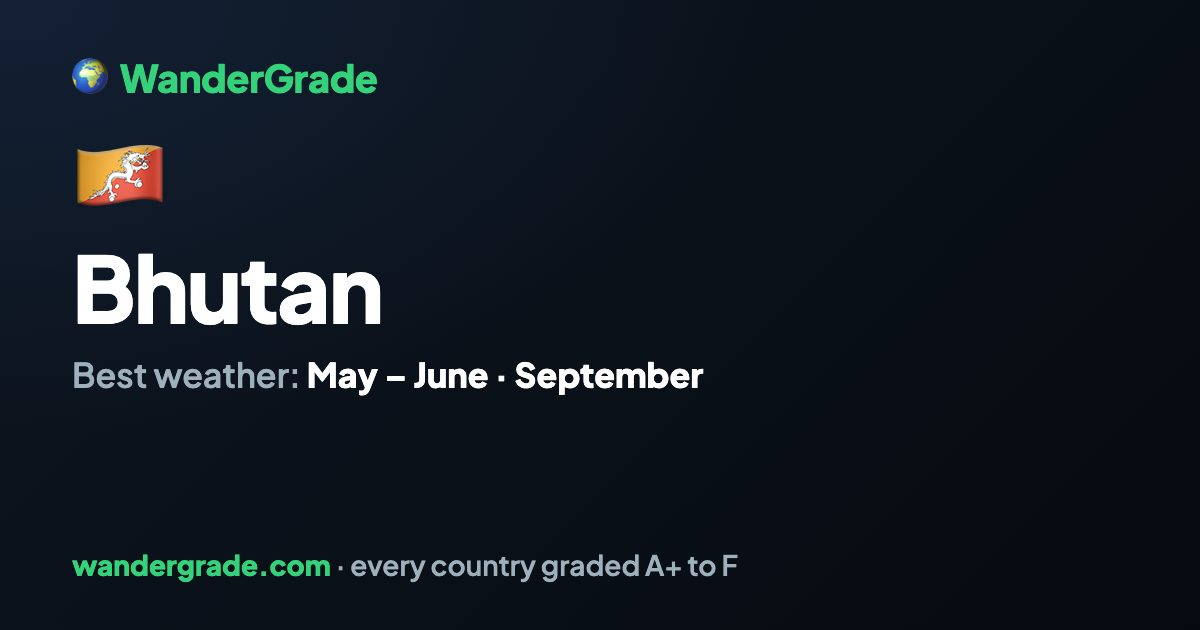
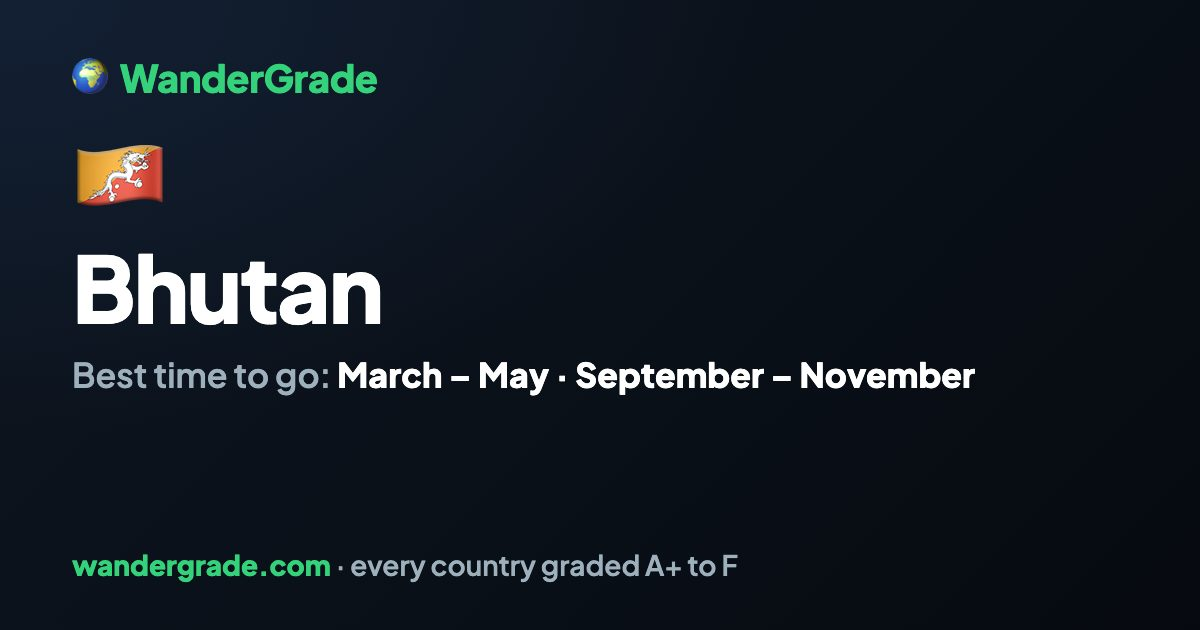
Regenerate after the review fixes; Bhutan's description keeps its fee
- guide-facts.json: Bhutan's description now names its curated months,
  "Best months to visit: March–May and September–November", and that
  longer line had pushed it to the rung that drops the band word, taking
  the visitor fee with it. The fee is a fact, not a verdict, so it now
  stays on every rung, in the 💰 line's words: "(+ $100/night fee)".
  Taiwan reads 44% (was 43%) on the snapshot. retitle --check: 0 titles.
- Share card: Bhutan's redrawn ("Best time to go: March – May ·
  September – November"); no other card is stale.
- Newsletter fingerprints: Taiwan's ratio moves months 1, 3, 4, 11 and
  12 (note in the file). February, the Dec 1 issue, is byte-identical.

Changed region(s): [[0.1233, 0.573, 0.8325, 0.6333]]

diff --git a/fxtracker/render_guide.py b/fxtracker/render_guide.py
@@ -362,10 +362,12 @@ def _desc(iso, f, asof):
         if has_p:
             # A mandatory daily visitor fee (Bhutan's) in the band's place:
             # "very cheap" beside US$100 a night misled, as on the 💰 line.
+            # In the 💰 line's words, and kept on every rung: a fact the price
+            # is wrong without, not a verdict to drop for room (Bhutan's
+            # curated months pushed the band rung, and the fee went with it).
             fee = visitor_fee(iso)
-            word = ("plus a $%s/%s fee" % (format(int(fee["usd"]), ","), fee.get("per") or "day") if fee
-                    else f.get("band"))
-            extra = ([word] if band and word else []) + (
+            word = fee_short(fee) if fee else (f.get("band") if band else None)
+            extra = ([word] if word else []) + (
                 ["%s-wide figure" % ("UK" if f.get("plof") == "GB" else d["names"].get(f["plof"], f["plof"]))]
                 if f.get("plof") else [])
             P = "%s: local prices ≈ %d%% of the US%s." % (

diff --git a/scripts/test_guide_meta.py b/scripts/test_guide_meta.py
@@ -120,7 +120,7 @@ results.append(ok(not l4_band, "no Level 4 description or fact line gives a barg
 fee_isos = sorted(i for i in guides if rg.visitor_fee(i))
 fee_bad = [i for i in fee_isos
            if re.search(r"(\(|💰 )(very cheap|cheap|a bit cheaper|about the same|pricey)", R[i]["desc"] + R[i]["body"], re.I)
-           or "(plus a $%d/%s fee)" % (rg.visitor_fee(i)["usd"], rg.visitor_fee(i)["per"]) not in R[i]["desc"]
+           or "(%s)" % rg.fee_short(rg.visitor_fee(i)) not in R[i]["desc"]
            or "💰 Local prices ≈ " not in R[i]["body"]]
 results.append(ok(fee_isos == ["BT"] and not fee_bad,
                   "no band word beside a visitor fee (%s): the description names the fee instead (%r) %s"
